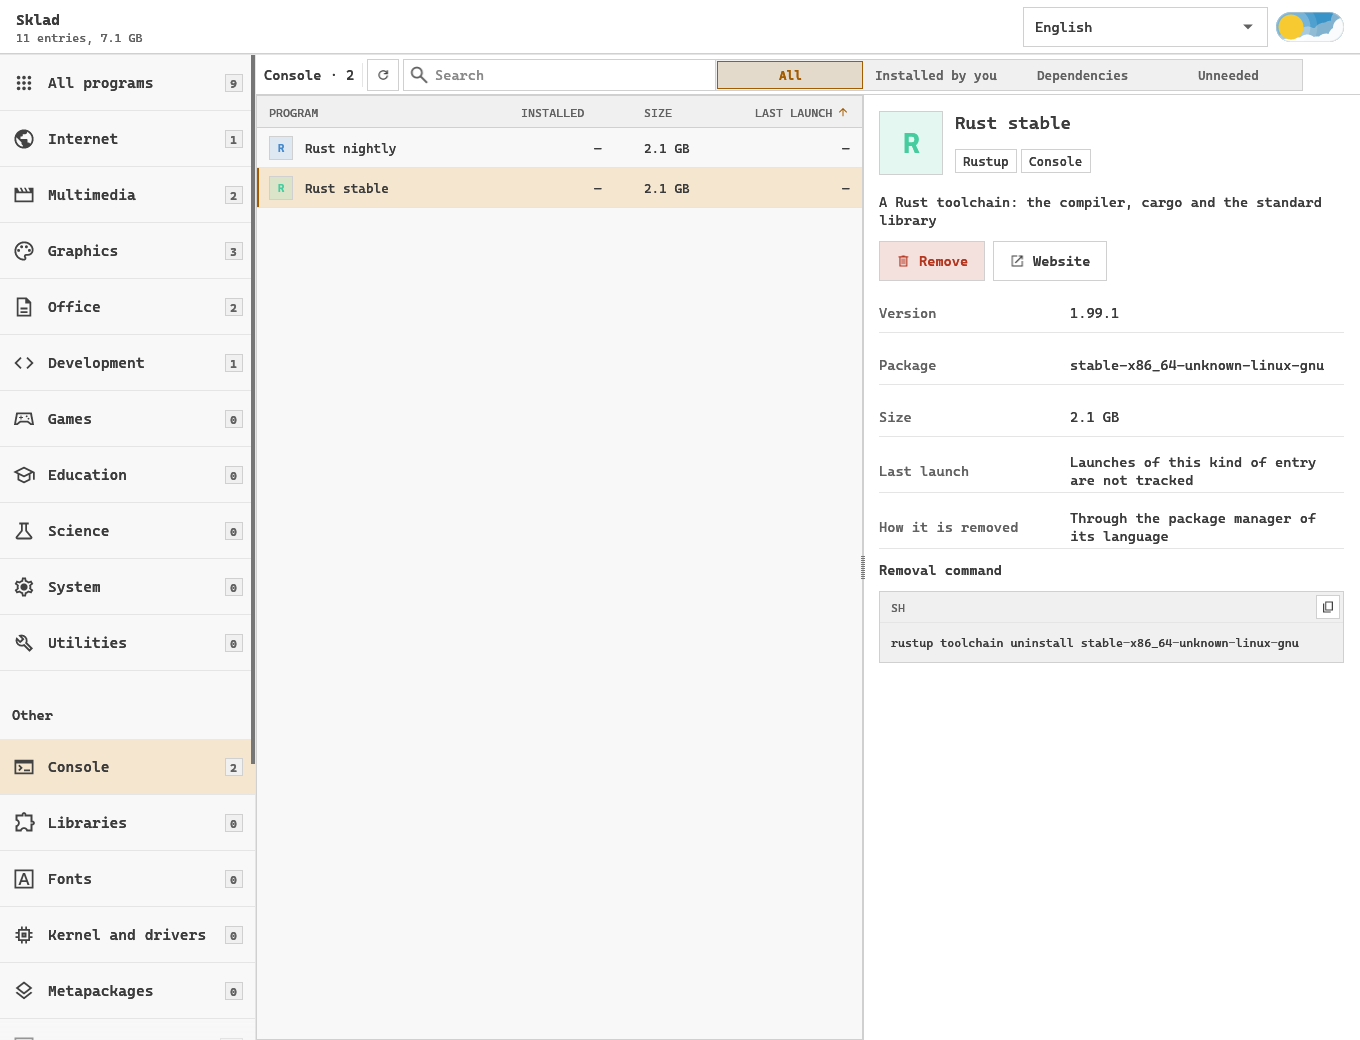
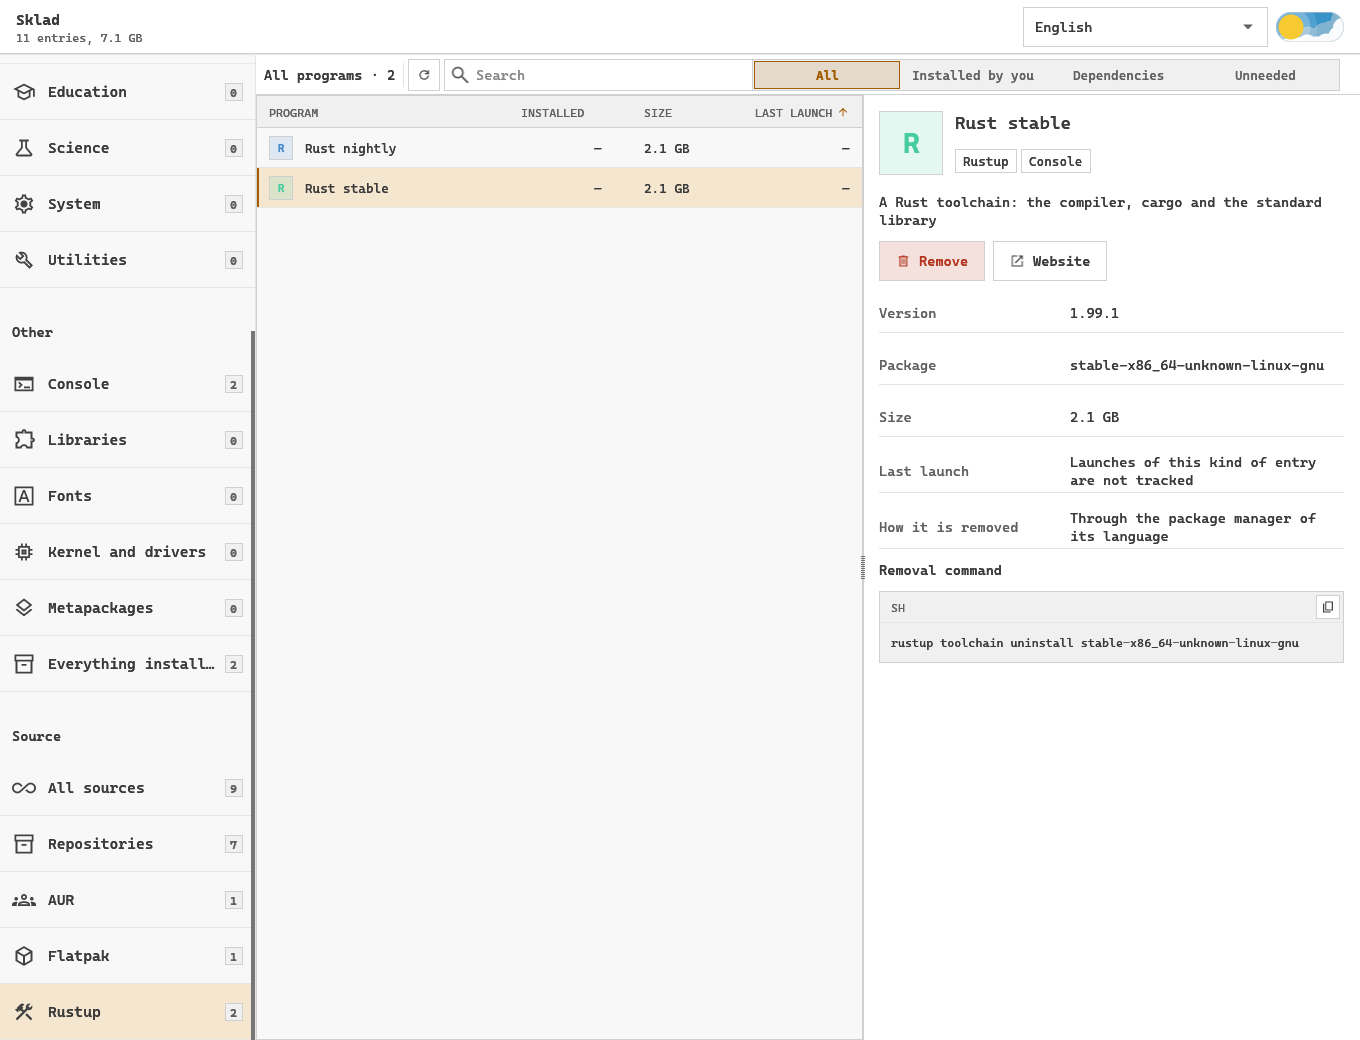
docs: the picture of language tools shows the Rustup source
The side bar is scrolled to its end and the Rustup source is chosen, so
the toolchains no longer look like a part of the console section.

diff --git a/tests/readme_pictures.rs b/tests/readme_pictures.rs
@@ -12,7 +12,9 @@ use eframe::egui::{self, Vec2};
 use egui_kittest::kittest::{By, Queryable};
 use egui_kittest::{Harness, HarnessBuilder};
 use sklad::i18n::{Choice, Lang};
-use sklad::model::{Access, Evidence, Item, Launch, PackageSystem, Reason, Removal, Section, Source, Usage};
+use sklad::model::{
+    Access, Evidence, Item, Launch, PackageSystem, Reason, Removal, Section, Source, SourceKind, Usage,
+};
 use sklad::plan::{Node, PackageDb};
 use sklad::remove::{Backend, Event, Failure, Outcome, Spec};
 use sklad::scan::Catalog;
@@ -322,6 +324,22 @@ fn click(harness: &mut Harness<'_, App>, label: &str) {
     settle(harness);
 }
 
+/// The sources lie at the end of the side bar, below the sections.
+fn scroll_side_bar_to_the_end(harness: &mut Harness<'_, App>) {
+    harness.event(egui::Event::PointerMoved(egui::pos2(120.0, 500.0)));
+    for _ in 0..20 {
+        harness.event(egui::Event::MouseWheel {
+            unit: egui::MouseWheelUnit::Point,
+            delta: egui::vec2(0.0, -200.0),
+            phase: egui::TouchPhase::Move,
+            modifiers: egui::Modifiers::NONE,
+            source: egui::MouseWheelSource::Wheel,
+        });
+        harness.step();
+    }
+    settle(harness);
+}
+
 /// Takes the pointer out of the window first: it would light up a row and show on the picture.
 fn save(harness: &mut Harness<'_, App>, name: &str) -> Result<(), String> {
     harness.event(egui::Event::PointerGone);
@@ -370,7 +388,8 @@ fn pictures(lang: Lang) -> Result<(), String> {
 
     let mut harness = window(lang);
     click(&mut harness, text.dark_theme);
-    click(&mut harness, (text.section)(Section::Console));
+    scroll_side_bar_to_the_end(&mut harness);
+    click(&mut harness, (text.source)(SourceKind::Rustup));
     click(&mut harness, "Rust stable");
     save(&mut harness, &format!("{code}-tools.png"))
 }
